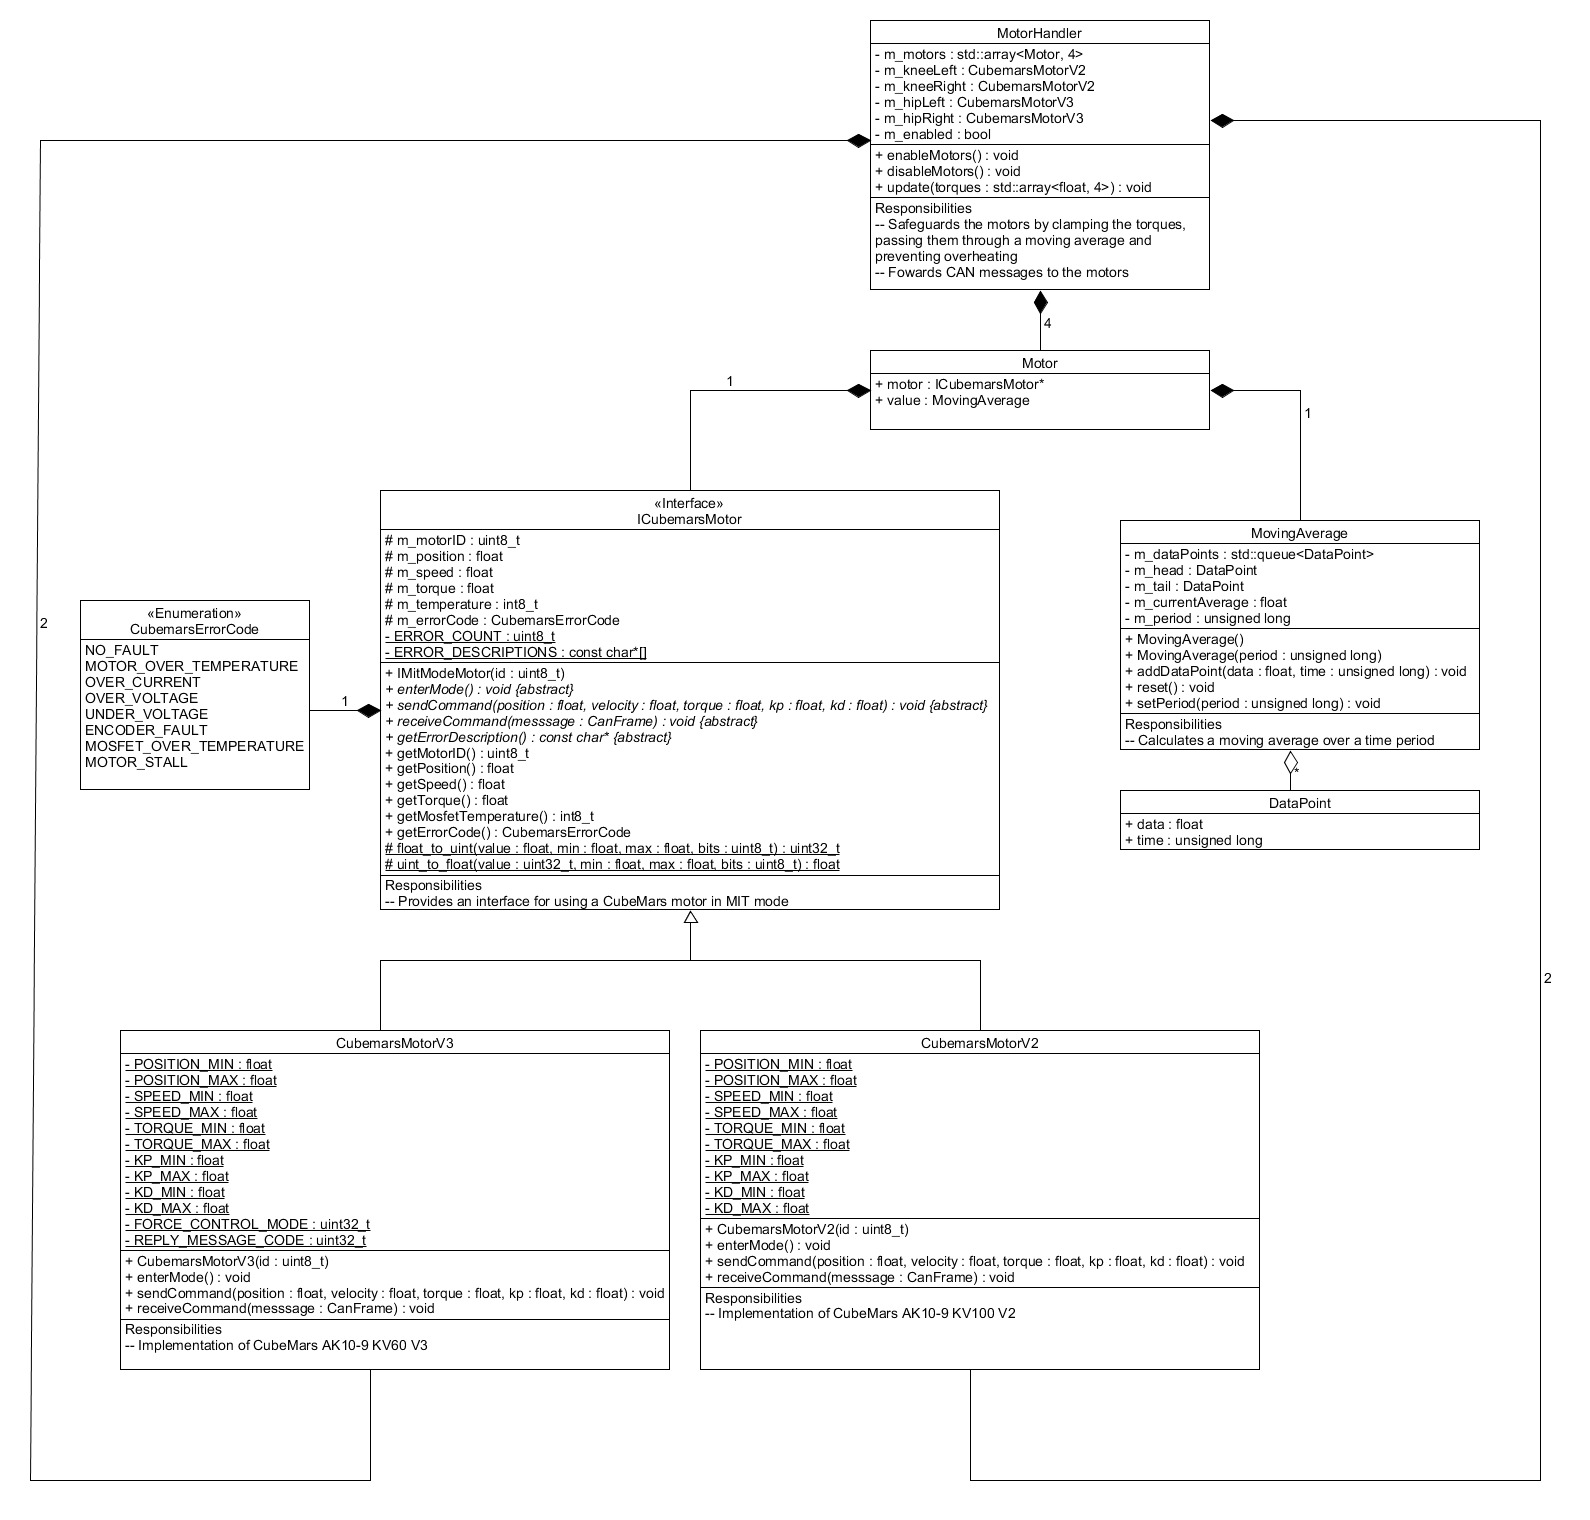
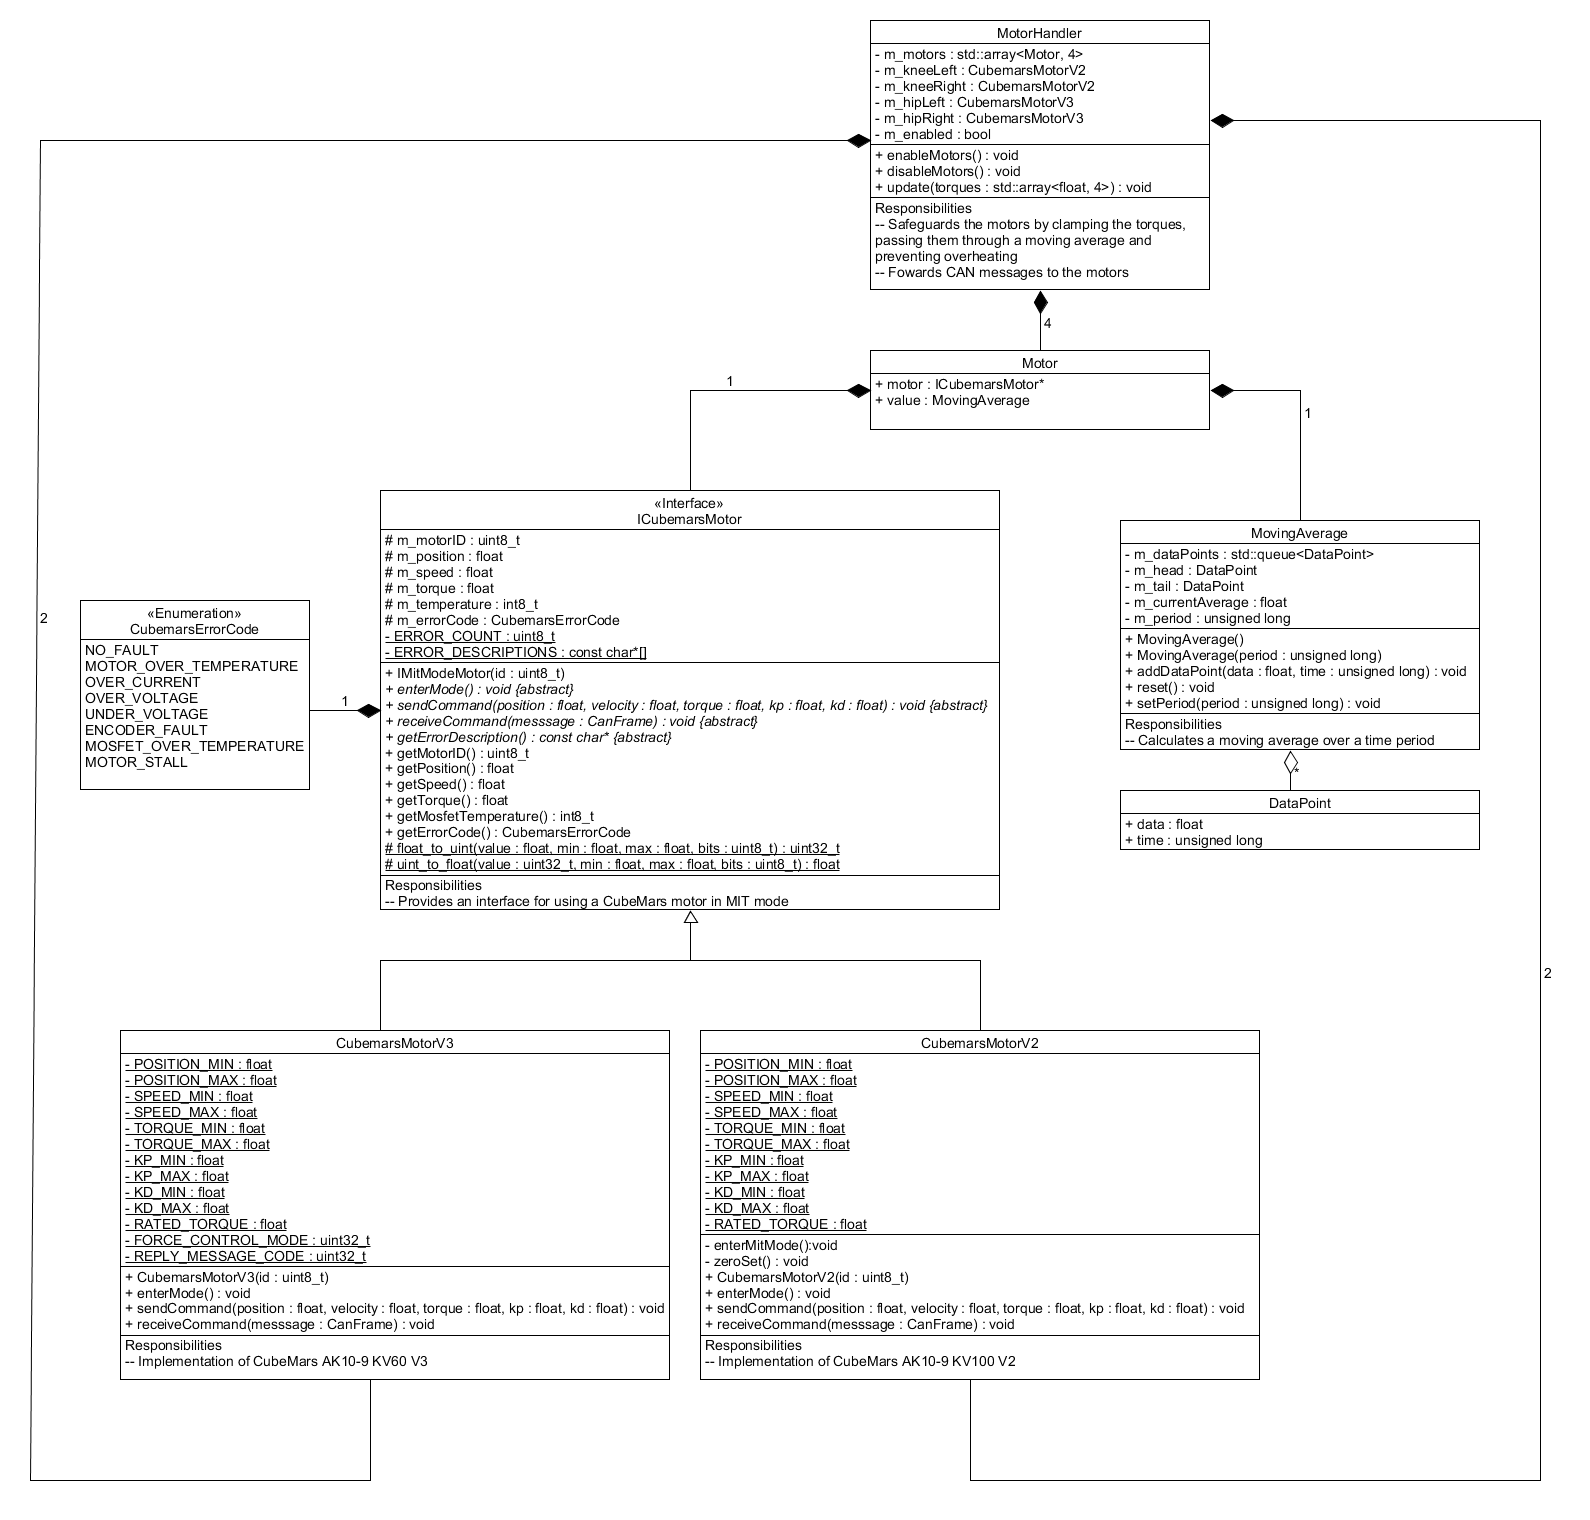
Implements suggested changes from PR #19
Adds a enterMitMode and zeroSet private functions to CubemarsMotorV2. Constrains the torque to the rated torque in all ICubemarsMotor::sendCommand implementations. Moves MovingAverage to a utils folder. Fixes the non-standard comments about CAN flags.

Changed region(s): [[0.0616, 0.8039, 0.678, 0.8967], [0.7396, 0.8039, 0.7704, 0.8658]]

diff --git a/Core/src/CubemarsMotorV2.cpp b/Core/src/CubemarsMotorV2.cpp
@@ -11,51 +11,8 @@ CubemarsMotorV2::CubemarsMotorV2(uint8_t p_id) : ICubemarsMotor(p_id) {}
 
 void CubemarsMotorV2::enterMode()
 {
-    // Refer to section 5.3 of the datasheet
-
-    // Enter Mode command
-    CanFrame enterModeMessage;
-
-    enterModeMessage.identifier = m_motorId; 
-    enterModeMessage.extd = 0;             //=========================================//
-    enterModeMessage.rtr = 0;              //= The bit field is not zero initialized =//
-    enterModeMessage.ss = 1;               //= Each field has to be set to avoid     =//
-    enterModeMessage.self = 0;             //= garbage values                        =//
-    enterModeMessage.dlc_non_comp = 0;     //==========================================//
-
-    enterModeMessage.data_length_code = 8;
-    enterModeMessage.data[0] = 0xFF;
-    enterModeMessage.data[1] = 0xFF;
-    enterModeMessage.data[2] = 0xFF;
-    enterModeMessage.data[3] = 0xFF;
-    enterModeMessage.data[4] = 0xFF;
-    enterModeMessage.data[5] = 0xFF;
-    enterModeMessage.data[6] = 0xFF;
-    enterModeMessage.data[7] = 0xFC;
-
-    ESP32Can.writeFrame(enterModeMessage);
-
-    // Zero Set command
-    CanFrame zeroSetMessage;
-
-    zeroSetMessage.identifier = m_motorId; 
-    zeroSetMessage.extd = 0;             //=========================================//
-    zeroSetMessage.rtr = 0;              //= The bit field is not zero initialized =//
-    zeroSetMessage.ss = 1;               //= Each field has to be set to avoid     =//
-    zeroSetMessage.self = 0;             //= garbage values                        =//
-    zeroSetMessage.dlc_non_comp = 0;     //==========================================//
-
-    zeroSetMessage.data_length_code = 8;
-    zeroSetMessage.data[0] = 0xFF;
-    zeroSetMessage.data[1] = 0xFF;
-    zeroSetMessage.data[2] = 0xFF;
-    zeroSetMessage.data[3] = 0xFF;
-    zeroSetMessage.data[4] = 0xFF;
-    zeroSetMessage.data[5] = 0xFF;
-    zeroSetMessage.data[6] = 0xFF;
-    zeroSetMessage.data[7] = 0xFE;
-    
-    ESP32Can.writeFrame(zeroSetMessage);
+    enterMitMode();
+    zeroSet();
 
     // Reset error flag
     m_errorCode = CubemarsErrorCode::NO_FAULT;
@@ -64,6 +21,9 @@ void CubemarsMotorV2::enterMode()
 void CubemarsMotorV2::sendCommand(float p_position, float p_velocity, float p_torque, float p_kp, float p_kd)
 {
     // Refer to section 5.3 of the datasheet
+
+    // Limit the torque to the rated continuous torque
+    p_torque = constrain(p_torque, -RATED_TORQUE, RATED_TORQUE);
 
     // Convert floats to unsigned ints
     uint32_t positionInt = float_to_uint(p_position, POSITION_MIN, POSITION_MAX, 16);
@@ -86,11 +46,15 @@ void CubemarsMotorV2::sendCommand(float p_position, float p_velocity, float p_to
     // Send CAN message
     CanFrame message;
     message.identifier = m_motorId;
-    message.extd = 0;         //=========================================//
-    message.rtr = 0;          //= The bit field is not zero initialized =//
-    message.ss = 1;           //= Each field has to be set to avoid     =//
-    message.self = 0;         //= garbage values                        =//
-    message.dlc_non_comp = 0; //==========================================//
+
+    // The bit field for CAN flags is not zero initialized
+    // Each field has to be set to avoid garbage values
+    message.extd = 0;
+    message.rtr = 0;
+    message.ss = 1;
+    message.self = 0;
+    message.dlc_non_comp = 0;
+
     message.data_length_code = sizeof(buffer);
     for(int i = 0; i < message.data_length_code; ++i)
     {
@@ -123,4 +87,60 @@ void CubemarsMotorV2::receiveCommand(const CanFrame& p_message)
     {
         m_errorCode = static_cast<CubemarsErrorCode>(errInt);
     }
+}
+
+void CubemarsMotorV2::enterMitMode()
+{
+    // Refer to section 5.3 of the datasheet
+
+    CanFrame message;
+    message.identifier = m_motorId; 
+
+    // The bit field for CAN flags is not zero initialized
+    // Each field has to be set to avoid garbage values
+    message.extd = 0;
+    message.rtr = 0;
+    message.ss = 1;
+    message.self = 0;
+    message.dlc_non_comp = 0;
+
+    message.data_length_code = 8;
+    message.data[0] = 0xFF;
+    message.data[1] = 0xFF;
+    message.data[2] = 0xFF;
+    message.data[3] = 0xFF;
+    message.data[4] = 0xFF;
+    message.data[5] = 0xFF;
+    message.data[6] = 0xFF;
+    message.data[7] = 0xFC;
+
+    ESP32Can.writeFrame(message);
+}
+
+void CubemarsMotorV2::zeroSet()
+{
+    // Refer to section 5.3 of the datasheet
+    
+    CanFrame message;
+    message.identifier = m_motorId; 
+
+    // The bit field for CAN flags is not zero initialized
+    // Each field has to be set to avoid garbage values
+    message.extd = 0;
+    message.rtr = 0;
+    message.ss = 1;
+    message.self = 0;
+    message.dlc_non_comp = 0;
+
+    message.data_length_code = 8;
+    message.data[0] = 0xFF;
+    message.data[1] = 0xFF;
+    message.data[2] = 0xFF;
+    message.data[3] = 0xFF;
+    message.data[4] = 0xFF;
+    message.data[5] = 0xFF;
+    message.data[6] = 0xFF;
+    message.data[7] = 0xFE;
+    
+    ESP32Can.writeFrame(message);
 }

diff --git a/Core/src/CubemarsMotorV3.cpp b/Core/src/CubemarsMotorV3.cpp
@@ -20,6 +20,9 @@ void CubemarsMotorV3::sendCommand(float p_position, float p_velocity, float p_to
 {
     // Refer to section 4.2 of the datasheet
 
+    // Limit the torque to the rated continuous torque
+    p_torque = constrain(p_torque, -RATED_TORQUE, RATED_TORQUE);
+
     // Convert floats to unsigned ints
     uint32_t positionInt = float_to_uint(p_position, POSITION_MIN, POSITION_MAX, 16);
     uint32_t velocityInt = float_to_uint(p_velocity, VELOCITY_MIN, VELOCITY_MAX, 12);
@@ -41,11 +44,15 @@ void CubemarsMotorV3::sendCommand(float p_position, float p_velocity, float p_to
     // Send CAN message
     CanFrame message;
     message.identifier = m_motorId | FORCE_CONTROL_MODE;
-    message.extd = 1;         //=========================================//
-    message.rtr = 0;          //= The bit field is not zero initialized =//
-    message.ss = 1;           //= Each field has to be set to avoid     =//
-    message.self = 0;         //= garbage values                        =//
-    message.dlc_non_comp = 0; //==========================================//
+
+    // The bit field for CAN flags is not zero initialized
+    // Each field has to be set to avoid garbage values
+    message.extd = 1;
+    message.rtr = 0;
+    message.ss = 1;
+    message.self = 0;
+    message.dlc_non_comp = 0;
+
     message.data_length_code = sizeof(buffer);
     for(int i = 0; i < message.data_length_code; ++i)
     {

diff --git a/Core/include/CubemarsMotorV3.hpp b/Core/include/CubemarsMotorV3.hpp
@@ -54,9 +54,7 @@ public:
     void receiveCommand(const CanFrame& message) override;
 
 private:
-    static constexpr uint32_t FORCE_CONTROL_MODE = 0x800;
-    static constexpr uint32_t REPLY_MESSAGE_CODE = 0x2900;
-
+    // Refer to section 4.2 of the datasheet for the parameter range of the AK10-9
     static constexpr float POSITION_MIN = -12.56f;
     static constexpr float POSITION_MAX =  12.56f;
     static constexpr float VELOCITY_MIN = -28.0f;
@@ -67,6 +65,13 @@ private:
     static constexpr float KP_MAX       =  500.0f;
     static constexpr float KD_MIN       =  0.0f;
     static constexpr float KD_MAX       =  5.0f;
+
+    // Refer to the Specification table of https://www.cubemars.com/product/ak10-9-v3-0-kv60-robotic-actuator.html
+    static constexpr float RATED_TORQUE = 18.0f;
+
+    // Bits 9-29 of the message ID
+    static constexpr uint32_t FORCE_CONTROL_MODE = 0x800;
+    static constexpr uint32_t REPLY_MESSAGE_CODE = 0x2900;
 };
 
 #endif

diff --git a/Core/include/CubemarsMotorV2.hpp b/Core/include/CubemarsMotorV2.hpp
@@ -54,6 +54,17 @@ public:
     void receiveCommand(const CanFrame& message) override;
     
 private:
+    /**
+     * @brief Enter MIT mode. Cubemars V2 motors have two seperate modes for Servo and MIT.
+     */
+    void enterMitMode();
+
+    /**
+     * @brief Set the current position as 0
+     */
+    void zeroSet();
+
+    // Refer to section 5.3 of the datasheet for the parameter range of the AK10-9
     static constexpr float POSITION_MIN = -12.5f;
     static constexpr float POSITION_MAX =  12.5f;
     static constexpr float VELOCITY_MIN = -50.0f;
@@ -64,6 +75,9 @@ private:
     static constexpr float KP_MAX       =  500.0f;
     static constexpr float KD_MIN       =  0.0f;
     static constexpr float KD_MAX       =  5.0f;
+
+    // Refer to the Specification table of https://www.cubemars.com/product/ak10-9-v2-0-kv100-robotic-actuator.html
+    static constexpr float RATED_TORQUE = 18.0f;
 };
 
 #endif

diff --git a/Core/src/ICubemarsMotor.cpp b/Core/src/ICubemarsMotor.cpp
@@ -7,6 +7,10 @@
  */
 #include "ICubemarsMotor.hpp"
 
+// This is necessary to avoid linker errors with C++14 and below
+// I am not sure why this specific member is a problem
+constexpr const char* ICubemarsMotor::ERROR_DESCRIPTIONS[ICubemarsMotor::MAX_ERROR];
+
 ICubemarsMotor::ICubemarsMotor(uint8_t p_id)
 {
     m_motorId = p_id;

diff --git a/Core/include/MotorHandler.hpp b/Core/include/MotorHandler.hpp
@@ -13,7 +13,7 @@
 #include "config.h"
 #include "CubemarsMotorV2.hpp"
 #include "CubemarsMotorV3.hpp"
-#include "MovingAverage.hpp"
+#include "utils/MovingAverage.hpp"
 
 /**
  * @brief Owns all motors and passes the torques through safety mechanisms before sending them

diff --git a/Core/src/utils/movingAverage.cpp b/Core/src/utils/movingAverage.cpp
@@ -5,7 +5,7 @@
  * @author Samuel Savaria
  * @date 2026-06-09
  */
-#include "MovingAverage.hpp"
+#include "utils/MovingAverage.hpp"
 
 MovingAverage::MovingAverage() {}
 
